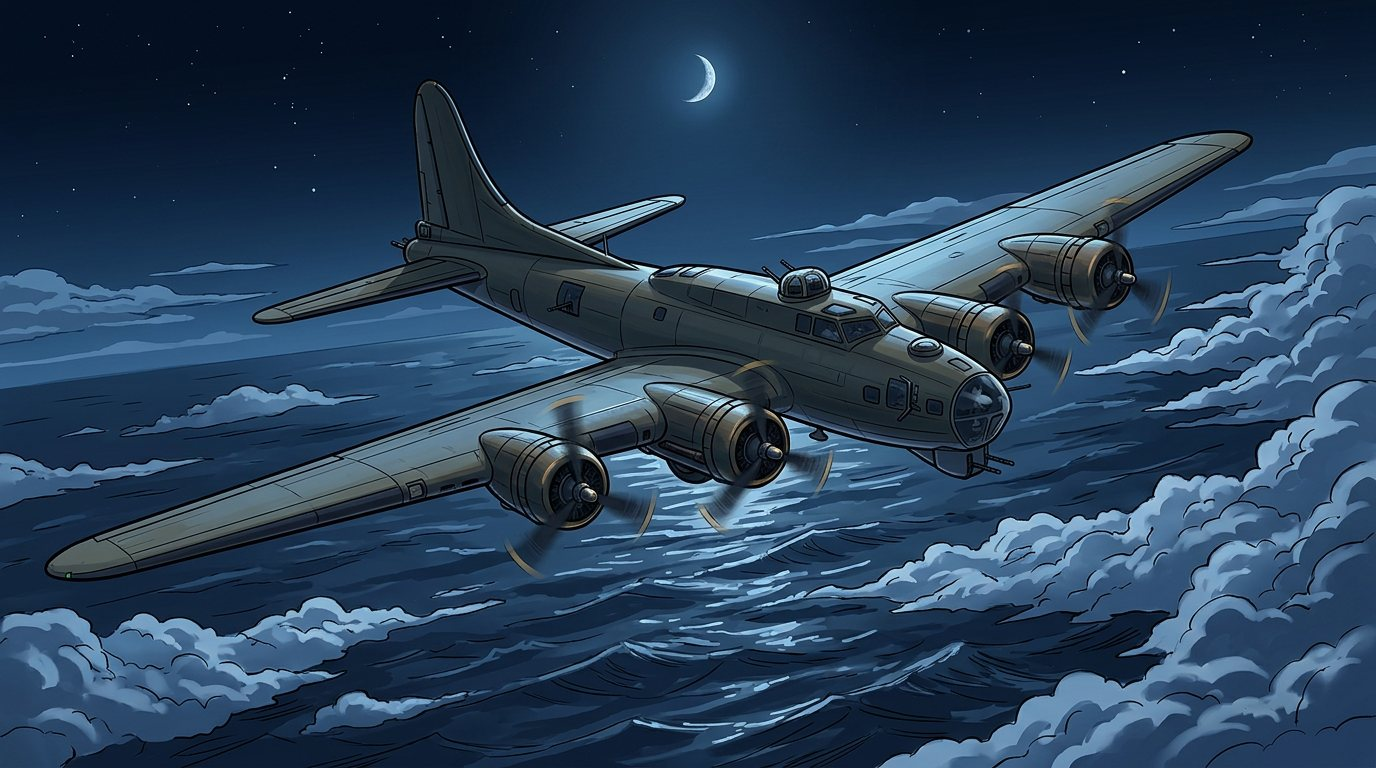
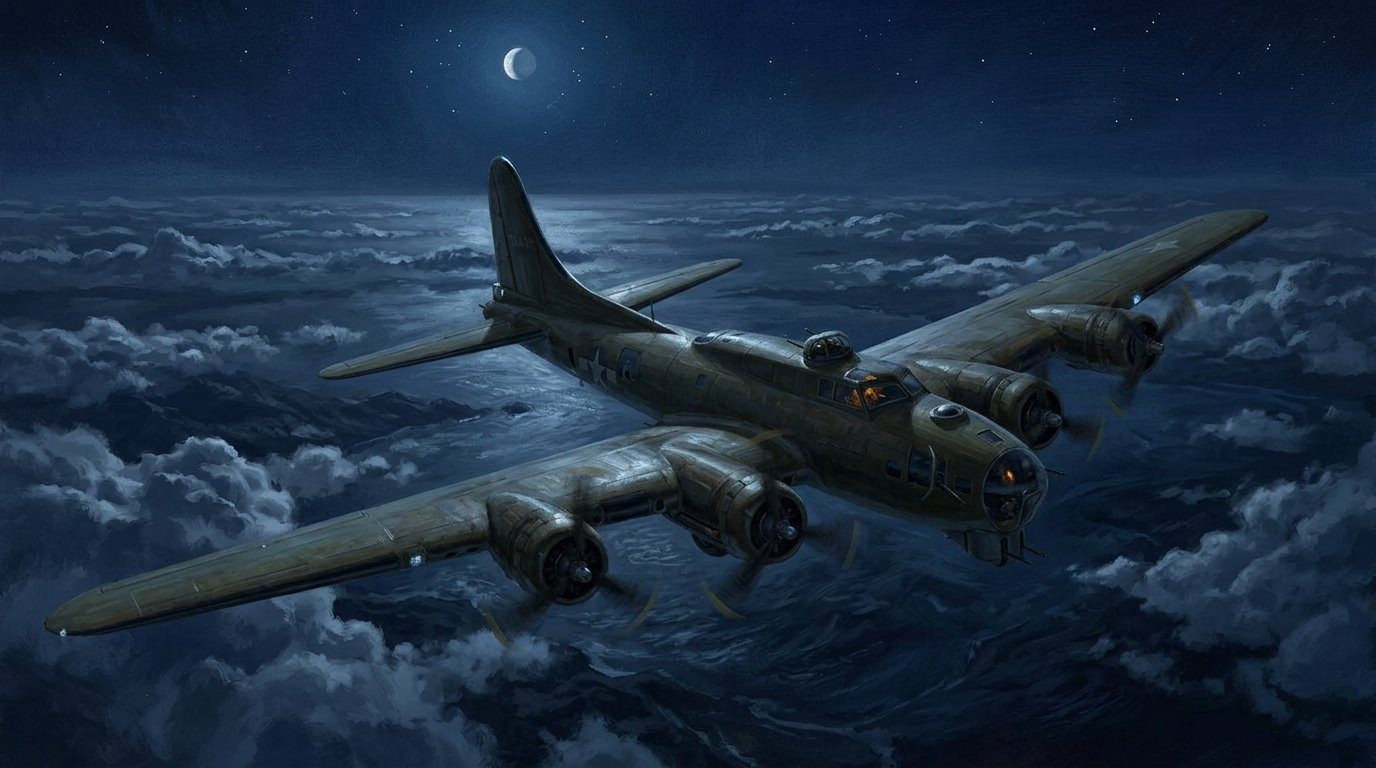
v84 : Mountain of the Gods ch. 1 — images 1, 5, 10, 15, 20 dans le nouveau style (test)

diff --git a/index.html b/index.html
@@ -164,7 +164,7 @@ nav button i{display:flex;align-items:center;justify-content:center;height:26px;
 .bdg{display:grid;grid-template-columns:repeat(auto-fill,minmax(130px,1fr));gap:14px;padding:4px 2px 20px}.bdc{background:none;border:0;color:inherit;text-align:left;padding:0;cursor:pointer}.bdc .im{aspect-ratio:2/3;border-radius:12px;overflow:hidden;background:linear-gradient(135deg,#ff5d73,#1b1f3a);display:grid;place-items:center;font-size:40px;box-shadow:0 8px 20px rgba(0,0,0,.45)}.bdc img{width:100%;height:100%;object-fit:cover}.bdc b{display:block;margin-top:8px;font-size:14px}.bdc small{color:var(--mu);font-size:12px}
 </style></head><body>
 <div id="lock"><div class="card glass"><img src="logo-larocq.svg" alt="Larocq" style="height:44px;margin:6px auto 14px;display:block"><p>Entre ton NIP pour ouvrir</p><input id="pin" type="password" inputmode="numeric" pattern="[0-9]*" autocomplete="off" maxlength="8" aria-label="NIP"><div id="err"></div><button class="btn tap" onclick="tryPin()">Ouvrir</button></div></div>
-<header><div class="top"><button class="ib tap" id="bk0" onclick="back()" aria-label="Retour" style="display:none;margin-right:10px;flex:none">←</button><div style="flex:1;min-width:0"><div id="crumb" style="display:none;font-size:12.5px;color:var(--mu);font-weight:650">Mes projets ›</div><h1 id="ttl" style="white-space:nowrap;overflow:hidden;text-overflow:ellipsis">Mes projets</h1><div id="maj">Chargement…</div></div><div style="display:flex;gap:8px;align-items:center"><div style="display:flex;flex-direction:column;align-items:center;line-height:1"><button class="ib tap" id="updb" onclick="forceUpd()" aria-label="Mettre à jour" title="Mettre à jour">🔄</button><small id="appv" style="font-size:9.5px;color:var(--mu);margin-top:2px">v83</small></div><button class="ib tap" id="sbt" onclick="document.body.classList.toggle('s-open');q.focus()" aria-label="Chercher">🔎</button><button class="ib tap" id="arcb" onclick="go(tab=='archives'?'home':'archives')" aria-label="Archives">🗄</button><button class="ib tap" onclick="settings()" aria-label="Réglages">⚙</button><button class="ib tap" onclick="relock()" aria-label="Verrouiller">🔒</button></div></div>
+<header><div class="top"><button class="ib tap" id="bk0" onclick="back()" aria-label="Retour" style="display:none;margin-right:10px;flex:none">←</button><div style="flex:1;min-width:0"><div id="crumb" style="display:none;font-size:12.5px;color:var(--mu);font-weight:650">Mes projets ›</div><h1 id="ttl" style="white-space:nowrap;overflow:hidden;text-overflow:ellipsis">Mes projets</h1><div id="maj">Chargement…</div></div><div style="display:flex;gap:8px;align-items:center"><div style="display:flex;flex-direction:column;align-items:center;line-height:1"><button class="ib tap" id="updb" onclick="forceUpd()" aria-label="Mettre à jour" title="Mettre à jour">🔄</button><small id="appv" style="font-size:9.5px;color:var(--mu);margin-top:2px">v84</small></div><button class="ib tap" id="sbt" onclick="document.body.classList.toggle('s-open');q.focus()" aria-label="Chercher">🔎</button><button class="ib tap" id="arcb" onclick="go(tab=='archives'?'home':'archives')" aria-label="Archives">🗄</button><button class="ib tap" onclick="settings()" aria-label="Réglages">⚙</button><button class="ib tap" onclick="relock()" aria-label="Verrouiller">🔒</button></div></div>
 <label class="search glass"><span>🔎</span><input id="q" type="search" placeholder="Chercher un projet…" autocomplete="off"></label></header>
 <main id="app"></main>
 <div id="comp" class="glass"><select id="cpj" aria-label="Projet"></select><div class="rw"><textarea id="ctx" rows="1" placeholder="Écris à Réal…"></textarea><button class="go tap" id="cgo" onpointerdown="event.preventDefault()" onmousedown="event.preventDefault()" ontouchstart="" onclick="sendConv()" aria-label="Envoyer">➤</button></div></div><div id="rd"><div class="rb rt"><button class="rx" onclick="history.back()" aria-label="Fermer">←</button><b id="rtt"></b><button class="rx" id="rbm" onclick="rBm()" aria-label="Signet">🔖</button><button class="rx" onclick="rPanel('toc')" aria-label="Table des matières">☰</button><button class="rx" onclick="rPanel('aa')" aria-label="Affichage">Aa</button></div><div id="rv"></div><div class="tz l" onclick="RR&&RR.prev()"></div><div class="tz r" onclick="RR&&RR.next()"></div><div class="rb rbt"><span id="rpc">…</span><div class="bar"><i id="rpb"></i></div><span id="rmn"></span></div><div class="pn" id="rpn"></div></div><div id="mini" class="glass tap" style="display:none" onclick="play(AP.id)"><span>🎧</span><b></b><i role="button" style="font-style:normal;font-size:20px" onclick="event.stopPropagation();AU.paused?AU.play():AU.pause()">▶</i></div><nav class="glass" id="tabs"></nav>
@@ -290,7 +290,7 @@ if(g&&g.state=='in'&&hLoc(g.date)>=hLoc(Date.now()-864e5)){x=g;tag='<span class=
 else if(fin){x=fin;tag=fin.win?'🏒 Victoire!':'🏒 Défaite';ti=vs(fin);sub=/OT|SO/.test(fin.detail||'')?(/SO/.test(fin.detail)?'En fusillade':'En prolongation'):'Final';sc=`${fin.us}–${fin.them}`}
 else if(g&&hLoc(g.date)==td){x=g;tag='🏒 Ce soir, les Canadiens';ti=`${dy(g.date)}, ${hm(g.date)} · ${g.home?'Centre Bell, contre les ':'contre les '}${fr(g.opp)}`;sub=(g.tv?'📺 '+g.tv:'');}
 else return'';return `<button class="hb tap" ${go}>${logos(x)}<div class="tx"><i>${tag}</i><b>${e(ti)}</b>${sub?`<small>${e(sub)}</small>`:''}</div>${sc?`<div class="sc">${sc}</div>`:''}</button>`}
-var APPV='v83';function accueil(v){const A=AJ||{},hr=new Date().getHours(),hi=hr<5?'Bonne nuit Christian 🌙':hr<12?'Bon matin Christian ☕':hr<18?'Bon après-midi Christian ☀':'Bonsoir Christian 🌆';
+var APPV='v84';function accueil(v){const A=AJ||{},hr=new Date().getHours(),hi=hr<5?'Bonne nuit Christian 🌙':hr<12?'Bon matin Christian ☕':hr<18?'Bon après-midi Christian ☀':'Bonsoir Christian 🌆';
 const dt=new Date().toLocaleDateString('fr-CA',{weekday:'long',day:'numeric',month:'long'});
 const pr=[...v].filter(p=>p.couverture).sort((a,b)=>(b.maj||'').localeCompare(a.maj||''));
 const mi=M.map(x=>({titre:x.titre,texte:x.resume,image:x.image,lien:'#/montre/'+x.id}));

diff --git a/sw.js b/sw.js
@@ -1,4 +1,4 @@
-const C='mesprojets-v83',SHELL=['./','index.html','manifest.webmanifest','icon-192.png','icon-512.png','icon-maskable-512.png','logo-larocq.svg','next.js','bd.js','film.js','vendor/jszip.min.js','covers/a-city-of-me.jpg','covers/ca-s-est-passe-ici-outaouais.jpg','covers/ce-qu-il-en-reste-la-joconde.jpg','covers/dancingly-yours.jpg','covers/le-dernier-costco.jpg','covers/le-dernier-lait.jpg','covers/les-monstres-qu-on-s-invente.jpg','covers/missing-time-at-road-44.jpg','covers/quarante-cinq-minutes.jpg','covers/second-notice.jpg','covers/story-bible-for-claude.jpg','covers/the-4th-hour-series-overview.jpg','covers/the-4th-hour-the-skull.jpg','covers/the-lines-that-live.jpg','covers/the-seventh-round.jpg','covers/wait-ai-immobilier.jpg','covers/wait-ai-enseignants.jpg','covers/mountain-of-the-gods.jpg','covers/quarante-cinq-minutes-bd-cover.jpg','covers/mountain-of-the-gods-film.jpg','covers/the-4th-hour-the-skull-illustre.jpg'];
+const C='mesprojets-v84',SHELL=['./','index.html','manifest.webmanifest','icon-192.png','icon-512.png','icon-maskable-512.png','logo-larocq.svg','next.js','bd.js','film.js','vendor/jszip.min.js','covers/a-city-of-me.jpg','covers/ca-s-est-passe-ici-outaouais.jpg','covers/ce-qu-il-en-reste-la-joconde.jpg','covers/dancingly-yours.jpg','covers/le-dernier-costco.jpg','covers/le-dernier-lait.jpg','covers/les-monstres-qu-on-s-invente.jpg','covers/missing-time-at-road-44.jpg','covers/quarante-cinq-minutes.jpg','covers/second-notice.jpg','covers/story-bible-for-claude.jpg','covers/the-4th-hour-series-overview.jpg','covers/the-4th-hour-the-skull.jpg','covers/the-lines-that-live.jpg','covers/the-seventh-round.jpg','covers/wait-ai-immobilier.jpg','covers/wait-ai-enseignants.jpg','covers/mountain-of-the-gods.jpg','covers/quarante-cinq-minutes-bd-cover.jpg','covers/mountain-of-the-gods-film.jpg','covers/the-4th-hour-the-skull-illustre.jpg'];
 self.addEventListener('install',e=>{e.waitUntil(caches.open(C).then(c=>c.addAll(SHELL)));self.skipWaiting()});
 self.addEventListener('activate',e=>{e.waitUntil(caches.keys().then(k=>Promise.all(k.filter(x=>x!==C&&!x.startsWith('larocq-audio')).map(x=>caches.delete(x)))));self.clients.claim()});
 self.addEventListener('fetch',e=>{const u=new URL(e.request.url);
